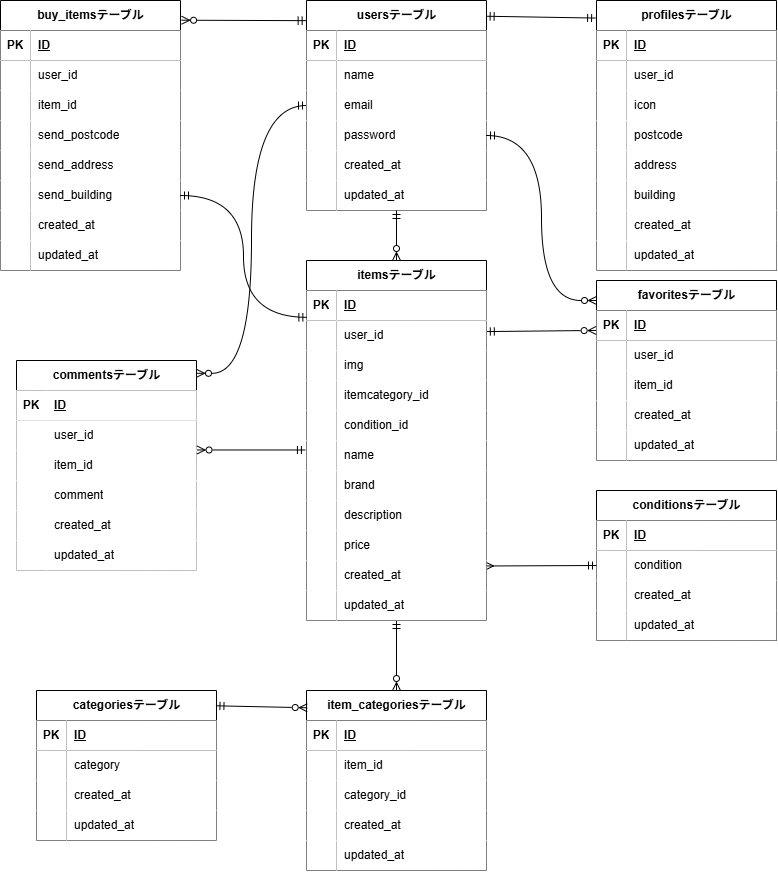
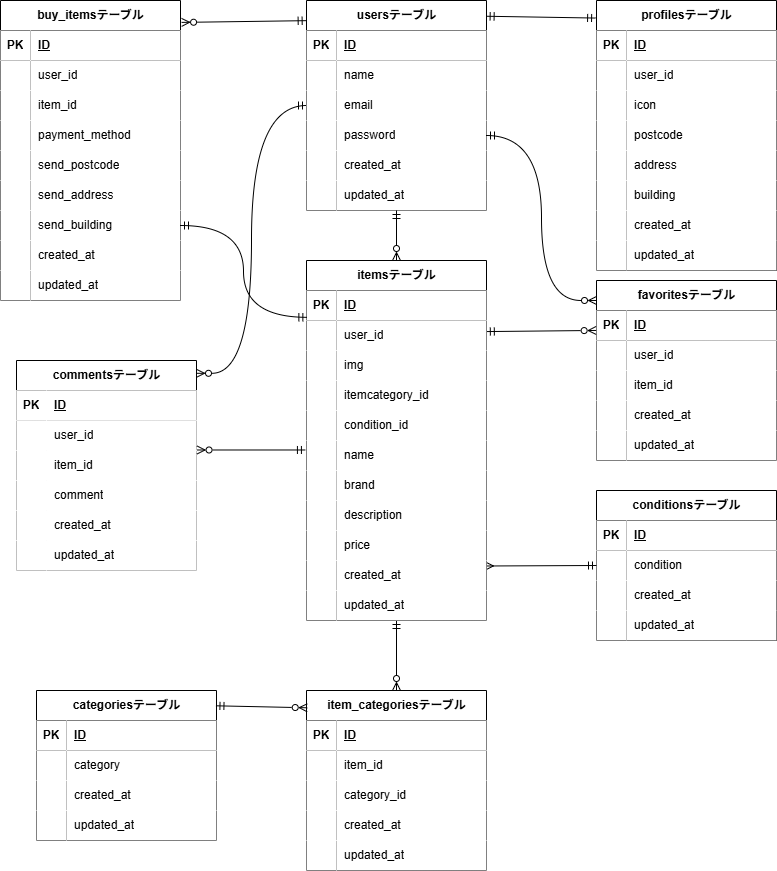
商品購入処理実装、マイグレーションファイル追加

diff --git a/src/resources/views/auth/buy.blade.php b/src/resources/views/auth/buy.blade.php
@@ -6,8 +6,8 @@
     <div class="left-container">
         <div class="item-info">
             <div class="item-img"></div>
-            <h3>商品名</h3>
-            <p>￥47,000</p>
+            <h3>{{ $item->name }}</h3>
+            <p>￥{{ number_format($item->price) }}</p>
         </div>
         <div class="item-payment">
             <h4>支払い方法</h4>
@@ -19,22 +19,30 @@
         <div class="send-address">
             <h4>配送先</h4>
             <a href="/buy/address">変更する</a>
-            <p>郵便番号がはいります</p>
-            <p>住所と建物名が入ります</p>
+            <p>{{ $profile->postcode }}</p>
+            <p>{{ $profile->address }} </p>
+            <p>{{ $profile->building }}</p>
         </div>
     </div>
     <div class="right-container">
         <table>
             <tr>
                 <th>商品代金</th>
-                <td>￥47,000</td>
+                <td>￥{{ number_format($item->price) }}</td>
             </tr>
             <tr>
                 <th>支払い方法</th>
-                <td>コンビニ払い</td>
+                <td id="payment-method-text">コンビニ払い</td>
             </tr>
         </table>
             <button type="submit" class="btn btn-primary">購入する</button>
     </div>
 </form>
+
+<script>
+document.getElementById('payment').addEventListener('change', function() {
+    var text = this.value === 'credit_card' ? 'カード払い' : 'コンビニ払い';
+    document.getElementById('payment-method-text').textContent = text;
+});
+</script>
 @endsection

diff --git a/src/resources/views/top.blade.php b/src/resources/views/top.blade.php
@@ -16,29 +16,19 @@
     @if(request('tab', 'recommend') === 'recommend')
     <div class="tab-content active" id="recommend">
         <div class="items-grid">
-            <!-- 商品カード 1 -->
+            @foreach($items as $item)
+            <!-- 商品カード -->
             <div class="item-card">
-                <a href="/item/1" class="item-link">
+                <a href="/item/{{ $item->id }}" class="item-link">
                     <div class="item-image">
-                        <img src="{{ asset('images/sample1.jpg') }}" alt="商品1">
+                        <img src="{{ $item->img ? asset('storage/' . $item->img) : asset('images/noimage.png') }}" alt="{{ $item->name }}">
                     </div>
                     <div class="item-info">
-                        <h3 class="item-name">iPhone 14 Pro Max</h3>
+                        <h3 class="item-name">{{ $item->name }}</h3>
                     </div>
                 </a>
             </div>
-
-            <!-- 商品カード 2 -->
-            <div class="item-card">
-                <a href="/item/2" class="item-link">
-                    <div class="item-image">
-                        <img src="{{ asset('images/sample2.jpg') }}" alt="商品2">
-                    </div>
-                    <div class="item-info">
-                        <h3 class="item-name">ナイキ エアマックス</h3>
-                    </div>
-                </a>
-            </div>
+            @endforeach
         </div>
     </div>
     @endif

diff --git a/src/resources/views/item.blade.php b/src/resources/views/item.blade.php
@@ -4,15 +4,15 @@
 <div class="left-container">
     <div class="item-img">
         商品画像
-        <img src="" alt="">
+        <img src="{{ $item->img ? asset('storage/' . $item->img) : asset('images/noimage.png') }}" alt="{{ $item->name }}">
     </div>
 </div>
 <div class="right-container">
-    <h2>商品名がここに入る</h2>
+    <h2>{{ $item->name }}</h2>
 
-    <p class="brand-name">ブランド名</p>
+    <p class="brand-name">{{ $item->brand }}</p>
 
-    <p class="price">￥47,000'(税込)</p>
+    <p class="price">￥{{ number_format($item->price) }} (税込)</p>
     
     <div class="favorite-info">
         <div class="favorite-icon">★</div>
@@ -25,19 +25,21 @@
     </div>
 
     <form method="GET" action="/buy">
-        <input type="hidden" name="item_id" value="{{ $item->id ?? 1 }}">
+        <input type="hidden" name="item_id" value="{{ $item->id }}">
         <button type="submit">購入手続きへ</button>
     </form>
     
     <div class="description-container">
         <h3>商品説明</h3>
-        <p class="description">商品説明がはいります</p>
+        <p class="description">{{ $item->description }}</p>
     </div>
 
     <div class="item-info">
         <h3>商品の情報</h3>
         <h4>カテゴリー</h4>
+        <p>{{ $item->categories->pluck('category')->join(', ') }}</p>
         <h4>商品の状態</h4>
+        <p>{{ $item->condition->condition ?? '' }}</p>
     </div>
 
     <div class="comment-container">

diff --git a/src/routes/web.php b/src/routes/web.php
@@ -23,9 +23,8 @@ use App\Http\Controllers\MypageController;
 
 Route::get('/', [ItemController::class, 'topPageShow']);
 Route::get('/item/{id}', [ItemController::class, 'itemPageShow']);
-Route::get('/buy/address', [AddressChangeController::class, 'addressChangePageShow']);
-Route::get('/buy', [ItemBuyController::class, 'itemBuyPageShow']);
-Route::get('/mypage', [MypageController::class, 'mypageShow'])->name('mypage');
+
+Route::post('/buy', [ItemBuyController::class, 'itemBuy']);
 
 // 認証が必要なルート
 Route::middleware('auth')->group(function () {
@@ -33,4 +32,8 @@ Route::middleware('auth')->group(function () {
     Route::post('/sell', [ItemSellController::class, 'itemSell']);
     Route::get('/profile', [MypageController::class, 'mypageEditPageShow'])->name('profile');
     Route::put('/profile', [MypageController::class, 'mypageUpdate'])->name('profile.update');
+    Route::get('/buy/address', [AddressChangeController::class, 'addressChangePageShow']);
+    Route::get('/buy', [ItemBuyController::class, 'itemBuyPageShow']);
+    
+    Route::get('/mypage', [MypageController::class, 'mypageShow'])->name('mypage');
 });

diff --git a/src/app/Http/Controllers/ItemBuyController.php b/src/app/Http/Controllers/ItemBuyController.php
@@ -4,6 +4,7 @@ namespace App\Http\Controllers;
 
 use Illuminate\Http\Request;
 use App\Models\Item;
+use App\Models\BuyItem;
 
 class ItemBuyController extends Controller
 {
@@ -17,7 +18,26 @@ class ItemBuyController extends Controller
         }
         
         $item = Item::findOrFail($itemId);
-        
-        return view('auth.buy', compact('item'));
+        $user = auth()->user();
+        $profile = $user->profile;
+
+        return view('auth.buy', compact('item', 'profile', 'request'));
+    }
+
+    public function itemBuy(Request $request)
+    {
+        $item = Item::findOrFail($request->input('item_id'));
+        $user = auth()->user();
+
+        BuyItem::create([
+            'user_id' => $user->id,
+            'item_id' => $item->id,
+            'payment_method' => $request->input('payment'),
+            'send_postcode' => $request->input('send_postcode'),
+            'send_address' => $request->input('send_address'),
+            'send_building' => $request->input('send_building')
+        ]);
+
+        return redirect('/');
     }
 }

diff --git a/src/database/migrations/2025_08_09_220039_add_payment_method_to_buy_items_table.php b/src/database/migrations/2025_08_09_220039_add_payment_method_to_buy_items_table.php
@@ -1,0 +1,32 @@
+<?php
+
+use Illuminate\Database\Migrations\Migration;
+use Illuminate\Database\Schema\Blueprint;
+use Illuminate\Support\Facades\Schema;
+
+class AddPaymentMethodToBuyItemsTable extends Migration
+{
+    /**
+     * Run the migrations.
+     *
+     * @return void
+     */
+    public function up()
+    {
+        Schema::table('buy_items', function (Blueprint $table) {
+            $table->string('payment_method')->after('item_id');
+        });
+    }
+
+    /**
+     * Reverse the migrations.
+     *
+     * @return void
+     */
+    public function down()
+    {
+        Schema::table('buy_items', function (Blueprint $table) {
+            $table->dropColumn('payment_method');
+        });
+    }
+}

diff --git a/src/app/Http/Controllers/ItemController.php b/src/app/Http/Controllers/ItemController.php
@@ -9,7 +9,8 @@ class ItemController extends Controller
 {
     public function topPageShow()
     {
-        return view('top');
+        $items = Item::orderBy('created_at', 'desc')->get();
+        return view('top', compact('items'));
     }
 
     public function itemPageShow($id)
